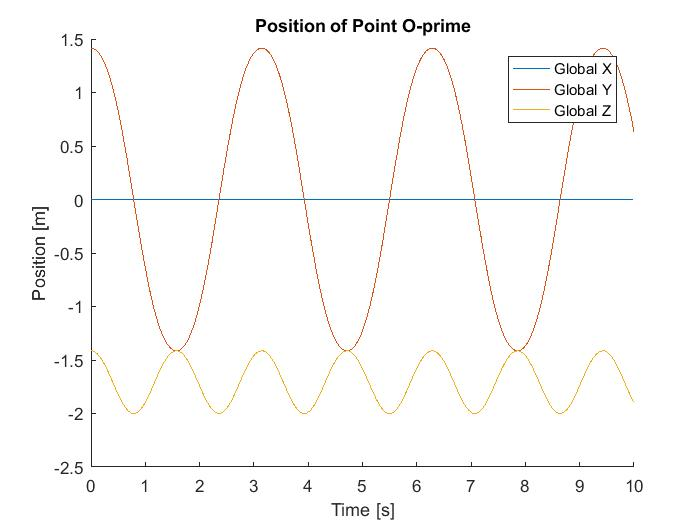
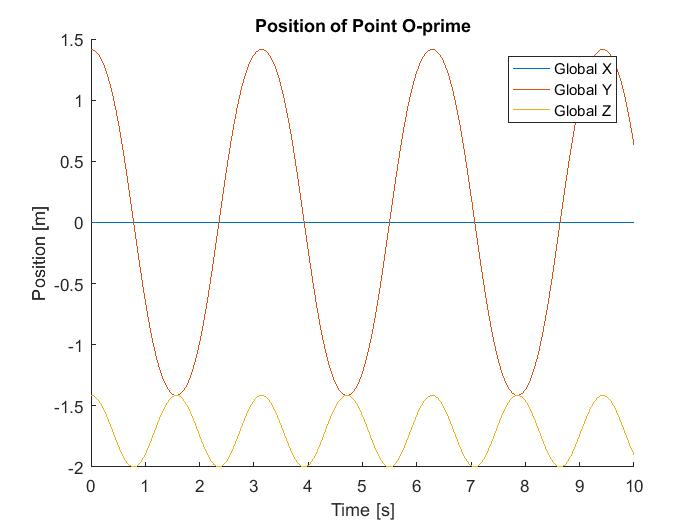
Add files via upload
Now without the stupid!

diff --git a/simEngine3D_A6P3.m b/simEngine3D_A6P3.m
@@ -2,7 +2,7 @@
 % creates model for HW6 Problem 3
 %
 % Written by: Dan Piombino
-% 10/20/16
+% 10/24/16
 
 clear;
 clc;
@@ -46,68 +46,52 @@ for nt = 1:T/dt+1
     clear phi phi_q phi_r phi_p
     while n == 1
         %Kinematic Constraints
-        [phi(1,k),~,~,phi_r(1,:),phi_p(1,:)] = phi_dp1(q(:,nt),q_d(:,nt),i,j,az_ib,ay_jb,th2);
-        [phi(2,k),~,~,phi_r(2,:),phi_p(2,:)] = phi_cd(q(:,nt),q_d(:,nt),i,j,sq_ib,so_jb,c1,dis); %fixed in x
-        [phi(3,k),~,~,phi_r(3,:),phi_p(3,:)] = phi_cd(q(:,nt),q_d(:,nt),i,j,sq_ib,so_jb,c2,dis); %fixed in y
-        [phi(4,k),~,~,phi_r(4,:),phi_p(4,:)] = phi_cd(q(:,nt),q_d(:,nt),i,j,sq_ib,so_jb,c3,dis); %fixed in z
-        [phi(5,k),~,~,phi_r(5,:),phi_p(5,:)] = phi_dp1(q(:,nt),q_d(:,nt),i,j,az_ib,az_jb,th2);
+        [phi(1,k),nu(1,1),gamma(1,1),phi_r(1,:),phi_p(1,:)] = phi_dp1(q(:,nt),q_d(:,nt),i,j,az_ib,ay_jb,th2);
+        [phi(2,k),nu(2,1),gamma(2,1),phi_r(2,:),phi_p(2,:)] = phi_cd(q(:,nt),q_d(:,nt),i,j,sq_ib,so_jb,c1,dis); %fixed in x
+        [phi(3,k),nu(3,1),gamma(3,1),phi_r(3,:),phi_p(3,:)] = phi_cd(q(:,nt),q_d(:,nt),i,j,sq_ib,so_jb,c2,dis); %fixed in y
+        [phi(4,k),nu(4,1),gamma(4,1),phi_r(4,:),phi_p(4,:)] = phi_cd(q(:,nt),q_d(:,nt),i,j,sq_ib,so_jb,c3,dis); %fixed in z
+        [phi(5,k),nu(5,1),gamma(5,1),phi_r(5,:),phi_p(5,:)] = phi_dp1(q(:,nt),q_d(:,nt),i,j,az_ib,az_jb,th2);
         %Driving Constraints
-        if abs(theta(1,nt))*180/pi >= 10
-            [phi(6,k),~,~,phi_r(6,:),phi_p(6,:)] = phi_dp1(q(:,nt),q_d(:,nt),i,j,ax_ib,-az_jb,theta(:,nt));
+        if abs(theta(1,nt))*180/pi >= 10 %Change reference angle to avoid singularities
+            [phi(6,k),nu(6,1),gamma(6,1),phi_r(6,:),phi_p(6,:)] = phi_dp1(q(:,nt),q_d(:,nt),i,j,ax_ib,-az_jb,theta(:,nt));
         else
             thetadev = theta(:,nt);
             thetadev(1) = theta(1,nt)+pi/4;
-            [phi(6,k),~,~,phi_r(6,:),phi_p(6,:)] = phi_dp1(q(:,nt),q_d(:,nt),i,j,ax_ib,ar_jb,thetadev);
+            [phi(6,k),nu(6,1),gamma(6,1),phi_r(6,:),phi_p(6,:)] = phi_dp1(q(:,nt),q_d(:,nt),i,j,ax_ib,ar_jb,thetadev);
         end
         %Euler Parameter Constraints
-        [phi(7,k),~,~,phi_r(7,:),phi_p(7,:)] = phi_ep(q(:,nt),q_d(:,nt),i);
-        phi_q = [phi_r phi_p];
+        [phi(7,k),nu(7,1),gamma(7,1),phi_r(7,:),phi_p(7,:)] = phi_ep(q(:,nt),q_d(:,nt),i);
+        phi_q = [phi_r phi_p]; %Combined Jacobian
         
         dum1 = 1;
         dum2 = 1;
         for n2 = 1:size(phi,1);
-            if abs(phi(n2,k)) >= 0.001 %are any phi values still not zero?
+            if abs(phi(n2,k)) >= 1e-8 %are any phi values still not zero?
                 dum1 = 0; %if so, do not stop while loop
             end
             if k > 1
-                if abs(phi(n2,k)-phi(n2,k-1)) >= 1e-4 %are any phi values still changing significantly?
+                if abs(phi(n2,k)-phi(n2,k-1)) >= 1e-10 %are any phi values still changing significantly?
                     dum2 = 0; %if so, do not stop while loop
                 end
             else
                 dum2 = 0;
             end
         end
-        if dum1 == 1 %if every value of phi is below 0.001
+        if dum1 == 1 %if every value of phi is below threshold
             n = 0;
         elseif dum2 == 1 %if every value of phi has converged to SOMETHING
             n = 0;
         elseif k > 1000 %if iteration limit is reached
             error('The solver failed to converge')
         else
-            q(:,nt) = q(:,nt)-(phi_q^-1)*phi(:,k);
+            q(:,nt) = q(:,nt)-(phi_q^-1)*phi(:,k); %Newton-Raphson
+            q_d(:,nt) = inv(phi_q)*nu; %Update q_dot
+            q_dd(:,nt) = inv(phi_q)*gamma; %update q_doubledot
             k = k+1;
         end
     end
     
-    %Kinematic Constraints
-    [~,nu(1,1),gamma(1,1),phi_r(1,:),phi_p(1,:)] = phi_dp1(q(:,nt),q_d(:,nt),i,j,az_ib,ax_jb,[0 0 0]');
-    [~,nu(2,1),gamma(2,1),phi_r(2,:),phi_p(2,:)] = phi_cd(q(:,nt),q_d(:,nt),i,j,sq_ib,so_jb,c1,dis); %fixed in x
-    [~,nu(3,1),gamma(3,1),phi_r(3,:),phi_p(3,:)] = phi_cd(q(:,nt),q_d(:,nt),i,j,sq_ib,so_jb,c2,dis); %fixed in y
-    [~,nu(4,1),gamma(4,1),phi_r(4,:),phi_p(4,:)] = phi_cd(q(:,nt),q_d(:,nt),i,j,sq_ib,so_jb,c3,dis); %fixed in z
-    [~,nu(5,1),gamma(5,1),phi_r(5,:),phi_p(5,:)] = phi_dp1(q(:,nt),q_d(:,nt),i,j,az_ib,az_jb,th2);
-    %Driving Constraints
-    if abs(theta(1,nt))*180/pi >= 10
-        [~,nu(6,1),gamma(6,1),phi_r(6,:),phi_p(6,:)] = phi_dp1(q(:,nt),q_d(:,nt),i,j,ax_ib,-az_jb,theta(:,nt));
-    else
-        [~,nu(6,1),gamma(6,1),phi_r(6,:),phi_p(6,:)] = phi_dp1(q(:,nt),q_d(:,nt),i,j,ax_ib,ar_jb,thetadev);
-    end
-    %Euler Parameter Constraints
-    [~,nu(7,1),gamma(7,1),phi_r(7,:),phi_p(7,:)] = phi_ep(q(:,nt),q_d(:,nt),i);
-    phi_q = [phi_r phi_p];
-    
-    q_d(:,nt) = (phi_q^-1)*nu;
-    q_dd(:,nt) = (phi_q^-1)*gamma;
-    
+    %Desired Quantities @ step nt
     Bi = bmat(q(:,nt),i,sq_ib);
     Bi_d = bmat(q_d(:,nt),i,sq_ib);
     A = orient(q(:,nt),i);
@@ -119,12 +103,15 @@ for nt = 1:T/dt+1
     Q_d(:,nt) = Op_d(:,nt)+Bi*q_d(4:7,nt);
     Q_dd(:,nt) = Op_dd(:,nt)+Bi_d*q_d(4:7,nt)+Bi*q_dd(4:7,nt);
     
+    %Set up next iteration
     if nt < T/dt+1
         q(:,nt+1) = q(:,nt); %initial guess for nt+1 = converged answer for nt
         q_d(:,nt+1) = q_d(:,nt);
         q_dd(:,nt+1) = q_dd(:,nt);
     end
 end
+
+%% Plot
 
 figure
 hold on
